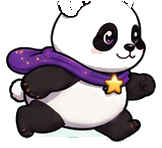
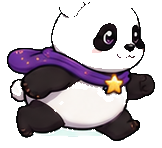
Erode edge fringe reliably; fix Noel/Kailia overlap in Trail; bigger text
- Character art: the color-distance fringe check missed some
  anti-aliased edge pixels on Noel's white fur (a blended pixel near
  white fur reads as closer to "fur" than "background," so it survived
  the distance-to-background check). Replaced with a color-agnostic
  1px alpha erosion — any pixel on the outermost edge of the silhouette
  is shaved off regardless of its color, which reliably removes the
  fringe for both characters. Verified all 26 files against both a
  dark and a light background after the pass.

- Kailia's Trail: Noel's and Kailia's running-sprite bounding boxes
  overlapped by ~20px, and Kailia's div (z-index 5) painted over
  Noel's (z-index 4) in that region, clipping part of his body/arm.
  Repositioned them with a clear gap so neither ever covers the other.

- Instruction text: bumped further per feedback that it was still hard
  to read — story-intro paragraphs go from text-xl/semibold to
  text-2xl/bold, and Noel's in-play dialog bubble text goes from
  text-base to text-lg, across all 9 games sharing the pattern.

diff --git a/app/play/trail-walk/page.tsx b/app/play/trail-walk/page.tsx
@@ -169,10 +169,10 @@ export default function TrailWalkPage() {
               <KailiaSprite size={96} expression="excited" className="float" />
             </div>
             <div className="rounded-3xl p-6 mx-2 text-left" style={{ background: 'rgba(255,255,255,0.95)' }}>
-              <p className="text-gray-800 text-xl font-semibold leading-relaxed mb-3">
+              <p className="text-gray-900 text-2xl font-bold leading-snug mb-3">
                 A brand-new trail stretches past the meadows! 🥾
               </p>
-              <p className="text-gray-800 text-xl font-semibold leading-relaxed">
+              <p className="text-gray-900 text-2xl font-bold leading-snug">
                 Walk with Kailia, meet the creatures along the way, and solve each one&apos;s little
                 riddle — every solved friend <strong>joins your party</strong> until you reach the flag! 🚩
               </p>
@@ -216,11 +216,13 @@ export default function TrailWalkPage() {
 
               <div className="absolute left-0 right-0" style={{ bottom: 0, height: 34, background: 'linear-gradient(180deg, #16a34a, #15803d)', pointerEvents: 'none' }} />
 
-              {/* Noel runs alongside Kailia — bigger, since he's a giant panda */}
-              <div className="absolute" style={{ left: kailiaScreenX - 96, bottom: 18, zIndex: 4 }}>
+              {/* Noel runs alongside Kailia — bigger, since he's a giant panda.
+                  Positioned with a clear gap (no overlap) so neither sprite's
+                  body ever gets clipped by the other. */}
+              <div className="absolute" style={{ left: kailiaScreenX - 124, bottom: 18, zIndex: 4 }}>
                 <RunnerSprite character="noel" action={walking.current ? 'run' : 'idle'} width={88} height={57} />
               </div>
-              <div className="absolute" style={{ left: kailiaScreenX - 28, bottom: 22, zIndex: 5 }}>
+              <div className="absolute" style={{ left: kailiaScreenX - 24, bottom: 22, zIndex: 5 }}>
                 <RunnerSprite character="kailia" action={walking.current ? 'run' : 'idle'} width={58} height={57} />
               </div>
               {party.map((p, i) => (
@@ -241,7 +243,7 @@ export default function TrailWalkPage() {
             <div className="flex items-center gap-3 mt-3 rounded-2xl p-2.5"
               style={{ background: 'rgba(255,255,255,0.6)', border: '1.5px solid rgba(14,116,144,0.2)' }}>
               <PandaSprite size={46} expression={phase === 'challenge' ? 'thinking' : 'happy'} style={{ flexShrink: 0 }} />
-              <div className="rounded-2xl px-3 py-2 text-base font-bold text-gray-900 bg-white relative shadow-sm">
+              <div className="rounded-2xl px-3 py-2 text-lg font-bold text-gray-900 bg-white relative shadow-sm">
                 <span className="absolute -left-2 top-1/2 -translate-y-1/2 w-0 h-0"
                   style={{ borderTop: '7px solid transparent', borderBottom: '7px solid transparent', borderRight: '9px solid white' }} />
                 {noelLine}

diff --git a/app/play/firefly-trails/page.tsx b/app/play/firefly-trails/page.tsx
@@ -191,10 +191,10 @@ export default function FireflyTrailsPage() {
               <KailiaSprite size={96} expression="excited" className="float" />
             </div>
             <div className="rounded-3xl p-6 mx-2 text-left" style={{ background: 'rgba(255,255,255,0.95)' }}>
-              <p className="text-gray-800 text-xl font-semibold leading-relaxed mb-3">
+              <p className="text-gray-900 text-2xl font-bold leading-snug mb-3">
                 The night sky pictures went dark! 🌌
               </p>
-              <p className="text-gray-800 text-xl font-semibold leading-relaxed">
+              <p className="text-gray-900 text-2xl font-bold leading-snug">
                 A little firefly knows every trail — <strong>trace her glowing paths</strong> to wake
                 the sky pictures, one star-dot at a time!
                 {mode === 'memory' && <> Tonight is tricky: the trail <strong>fades</strong> — remember it!</>}
@@ -260,7 +260,7 @@ export default function FireflyTrailsPage() {
             <div className="flex items-center gap-3 mt-3 rounded-2xl p-2.5"
               style={{ background: 'rgba(255,255,255,0.08)', border: '1.5px solid rgba(255,255,255,0.15)' }}>
               <PandaSprite size={46} expression={phase === 'watch' ? 'thinking' : 'excited'} style={{ flexShrink: 0 }} />
-              <div className="rounded-2xl px-3 py-2 text-base font-bold text-gray-900 bg-white relative">
+              <div className="rounded-2xl px-3 py-2 text-lg font-bold text-gray-900 bg-white relative">
                 <span className="absolute -left-2 top-1/2 -translate-y-1/2 w-0 h-0"
                   style={{ borderTop: '7px solid transparent', borderBottom: '7px solid transparent', borderRight: '9px solid white' }} />
                 {noelLine}

diff --git a/app/play/firefly-catch/page.tsx b/app/play/firefly-catch/page.tsx
@@ -370,10 +370,10 @@ export default function FireflyCatchPage() {
               <span className="text-5xl mb-6" style={{ filter: 'grayscale(0.8) brightness(0.6)' }}>🏮</span>
             </div>
             <div className="rounded-3xl p-6 mx-2 text-left" style={{ background: 'rgba(255,255,255,0.95)' }}>
-              <p className="text-gray-800 text-xl font-semibold leading-relaxed mb-3">
+              <p className="text-gray-900 text-2xl font-bold leading-snug mb-3">
                 Oh no — <strong>Kailia&apos;s lantern went dark</strong> on the forest trail! 🌲
               </p>
-              <p className="text-gray-800 text-xl font-semibold leading-relaxed">
+              <p className="text-gray-900 text-2xl font-bold leading-snug">
                 Noel says the <strong>fireflies</strong> can light it again. Catch them with your finger — gently! ✨
               </p>
             </div>
@@ -464,7 +464,7 @@ export default function FireflyCatchPage() {
             <div className="flex items-center gap-3 mt-3 rounded-2xl p-2.5"
               style={{ background: 'rgba(255,255,255,0.08)', border: '1.5px solid rgba(255,255,255,0.15)' }}>
               <PandaSprite size={46} expression={noelMood} style={{ flexShrink: 0 }} />
-              <div className="rounded-2xl px-3 py-2 text-base font-bold text-gray-900 bg-white relative">
+              <div className="rounded-2xl px-3 py-2 text-lg font-bold text-gray-900 bg-white relative">
                 <span className="absolute -left-2 top-1/2 -translate-y-1/2 w-0 h-0"
                   style={{ borderTop: '7px solid transparent', borderBottom: '7px solid transparent', borderRight: '9px solid white' }} />
                 {noelLine}

diff --git a/app/play/moonlight-match/page.tsx b/app/play/moonlight-match/page.tsx
@@ -205,10 +205,10 @@ export default function MoonlightMatchPage() {
               <KailiaSprite size={96} expression="thinking" className="float" />
             </div>
             <div className="rounded-3xl p-6 mx-2 text-left" style={{ background: 'rgba(255,255,255,0.95)' }}>
-              <p className="text-gray-800 text-xl font-semibold leading-relaxed mb-3">
+              <p className="text-gray-900 text-2xl font-bold leading-snug mb-3">
                 The wise owl hid her friends under <strong>moonlit feathers</strong>! 🪶
               </p>
-              <p className="text-gray-800 text-xl font-semibold leading-relaxed">
+              <p className="text-gray-900 text-2xl font-bold leading-snug">
                 Flip two at a time and remember where everyone sleeps. Match pairs in a row for
                 <strong> combo magic</strong>! ✨
               </p>
@@ -261,7 +261,7 @@ export default function MoonlightMatchPage() {
             <div className="flex items-center gap-3 mt-3 rounded-2xl p-2.5"
               style={{ background: 'rgba(255,255,255,0.08)', border: '1.5px solid rgba(255,255,255,0.15)' }}>
               <PandaSprite size={46} expression={noelMood} style={{ flexShrink: 0 }} />
-              <div className="rounded-2xl px-3 py-2 text-base font-bold text-gray-900 bg-white relative">
+              <div className="rounded-2xl px-3 py-2 text-lg font-bold text-gray-900 bg-white relative">
                 <span className="absolute -left-2 top-1/2 -translate-y-1/2 w-0 h-0"
                   style={{ borderTop: '7px solid transparent', borderBottom: '7px solid transparent', borderRight: '9px solid white' }} />
                 {noelLine}

diff --git a/app/play/story-sparks/page.tsx b/app/play/story-sparks/page.tsx
@@ -183,10 +183,10 @@ export default function StorySparksPage() {
               <KailiaSprite size={96} expression="excited" className="float" />
             </div>
             <div className="rounded-3xl p-6 mx-2 text-left" style={{ background: 'rgba(255,255,255,0.95)' }}>
-              <p className="text-gray-800 text-xl font-semibold leading-relaxed mb-3">
+              <p className="text-gray-900 text-2xl font-bold leading-snug mb-3">
                 The Story Keepers&apos; books lost their pages! 📖✨
               </p>
-              <p className="text-gray-800 text-xl font-semibold leading-relaxed">
+              <p className="text-gray-900 text-2xl font-bold leading-snug">
                 YOU hold the story spark — at every page, choose what <strong>really</strong> happens
                 next, and the tale comes back to life!
               </p>
@@ -224,7 +224,7 @@ export default function StorySparksPage() {
             <div className="flex items-center gap-3 mt-3 rounded-2xl p-2.5"
               style={{ background: 'rgba(255,255,255,0.1)', border: '1.5px solid rgba(255,255,255,0.2)' }}>
               <PandaSprite size={46} expression={noelMood} style={{ flexShrink: 0 }} />
-              <div className="rounded-2xl px-3 py-2 text-base font-bold text-gray-900 bg-white relative">
+              <div className="rounded-2xl px-3 py-2 text-lg font-bold text-gray-900 bg-white relative">
                 <span className="absolute -left-2 top-1/2 -translate-y-1/2 w-0 h-0"
                   style={{ borderTop: '7px solid transparent', borderBottom: '7px solid transparent', borderRight: '9px solid white' }} />
                 {noelLine}

diff --git a/app/play/echo-song/page.tsx b/app/play/echo-song/page.tsx
@@ -142,10 +142,10 @@ export default function EchoSongPage() {
               <KailiaSprite size={96} expression="excited" className="float" />
             </div>
             <div className="rounded-3xl p-6 mx-2 text-left" style={{ background: 'rgba(255,255,255,0.95)' }}>
-              <p className="text-gray-800 text-xl font-semibold leading-relaxed mb-3">
+              <p className="text-gray-900 text-2xl font-bold leading-snug mb-3">
                 Deep in Echo Caves, the <strong>crystals sing</strong>! 🎶
               </p>
-              <p className="text-gray-800 text-xl font-semibold leading-relaxed">
+              <p className="text-gray-900 text-2xl font-bold leading-snug">
                 Listen to their little song… then <strong>echo it back</strong> by tapping the
                 crystals in the same order!
               </p>
@@ -185,7 +185,7 @@ export default function EchoSongPage() {
             <div className="flex items-center gap-3 mt-4 rounded-2xl p-2.5"
               style={{ background: 'rgba(255,255,255,0.08)', border: '1.5px solid rgba(255,255,255,0.15)' }}>
               <PandaSprite size={46} expression={noelMood} style={{ flexShrink: 0 }} />
-              <div className="rounded-2xl px-3 py-2 text-base font-bold text-gray-900 bg-white relative">
+              <div className="rounded-2xl px-3 py-2 text-lg font-bold text-gray-900 bg-white relative">
                 <span className="absolute -left-2 top-1/2 -translate-y-1/2 w-0 h-0"
                   style={{ borderTop: '7px solid transparent', borderBottom: '7px solid transparent', borderRight: '9px solid white' }} />
                 {noelLine}

diff --git a/app/play/hidden-friends/page.tsx b/app/play/hidden-friends/page.tsx
@@ -176,7 +176,7 @@ export default function WheresNoelPage() {
             </div>
             <div className="rounded-3xl p-6 mx-2 text-left" style={{ background: 'rgba(255,255,255,0.95)' }}>
               <p className="text-xs font-bold text-slate-400 uppercase tracking-widest mb-2">{scene.emoji} Chapter {level}: {scene.name}</p>
-              <p className="text-gray-800 text-xl font-semibold leading-relaxed">{scene.story}</p>
+              <p className="text-gray-900 text-2xl font-bold leading-snug">{scene.story}</p>
             </div>
             <button onClick={startLevel}
               className="mt-6 px-12 py-4 rounded-full text-xl font-extrabold text-slate-900 shadow-xl transition-transform hover:scale-105"
@@ -220,7 +220,7 @@ export default function WheresNoelPage() {
             <div className="flex items-center gap-3 mt-3 rounded-2xl p-2.5"
               style={{ background: 'rgba(255,255,255,0.08)', border: '1.5px solid rgba(255,255,255,0.15)' }}>
               <PandaSprite size={46} expression={targetsLeft.length === 0 ? 'celebrating' : 'thinking'} style={{ flexShrink: 0 }} />
-              <div className="rounded-2xl px-3 py-2 text-base font-bold text-gray-900 bg-white relative">
+              <div className="rounded-2xl px-3 py-2 text-lg font-bold text-gray-900 bg-white relative">
                 <span className="absolute -left-2 top-1/2 -translate-y-1/2 w-0 h-0"
                   style={{ borderTop: '7px solid transparent', borderBottom: '7px solid transparent', borderRight: '9px solid white' }} />
                 {noelLine}

diff --git a/app/play/journey/page.tsx b/app/play/journey/page.tsx
@@ -430,8 +430,8 @@ export default function JourneyPage() {
                   ⟨ REGION {level} ⟩ {BIOMES[(level - 1) % BIOMES.length].name.toUpperCase()}
                 </div>
                 <div className="rounded-3xl p-6 text-left" style={{ background: 'rgba(255,255,255,0.95)' }}>
-                  <p className="text-gray-800 text-xl font-semibold leading-relaxed mb-3">A brand-new world stretches ahead! 🗺</p>
-                  <p className="text-gray-800 text-xl font-semibold leading-relaxed">
+                  <p className="text-gray-900 text-2xl font-bold leading-snug mb-3">A brand-new world stretches ahead! 🗺</p>
+                  <p className="text-gray-900 text-2xl font-bold leading-snug">
                     Walk Kailia through <strong>{BIOMES[(level - 1) % BIOMES.length].name}</strong> — just tap
                     anywhere on the map to walk there! Step into patches of <strong>tall grass 🌾</strong> to meet
                     wild creatures — solve their riddle to catch them, then lead your new friends to the flag! 🚩

diff --git a/app/play/sky-mail/page.tsx b/app/play/sky-mail/page.tsx
@@ -539,7 +539,7 @@ export default function SkyMailPage() {
             <div className="flex items-center gap-3 mt-3 rounded-2xl p-2.5"
               style={{ background: 'rgba(255,255,255,0.1)', border: '1.5px solid rgba(255,255,255,0.2)' }}>
               <PandaSprite size={46} expression={noelMood} style={{ flexShrink: 0 }} />
-              <div className="rounded-2xl px-3 py-2 text-base font-bold text-gray-900 bg-white relative">
+              <div className="rounded-2xl px-3 py-2 text-lg font-bold text-gray-900 bg-white relative">
                 <span className="absolute -left-2 top-1/2 -translate-y-1/2 w-0 h-0"
                   style={{ borderTop: '7px solid transparent', borderBottom: '7px solid transparent', borderRight: '9px solid white' }} />
                 {noelLine}

diff --git a/app/play/snack-quest/page.tsx b/app/play/snack-quest/page.tsx
@@ -376,7 +376,7 @@ export default function SnackQuestPage() {
         {phase === 'select' && (
           <div className="text-center mt-6 bounce-in">
             <div className="rounded-3xl p-5 mx-1 mb-5 text-left" style={{ background: 'rgba(255,255,255,0.95)' }}>
-              <p className="text-gray-800 text-xl font-semibold leading-relaxed">
+              <p className="text-gray-900 text-2xl font-bold leading-snug">
                 <span className="text-3xl mr-1">🐲</span>
                 A <strong>baby dragon</strong> is hungry — and she only eats <strong>exactly</strong> the
                 right amount! Who will gather her snacks?
